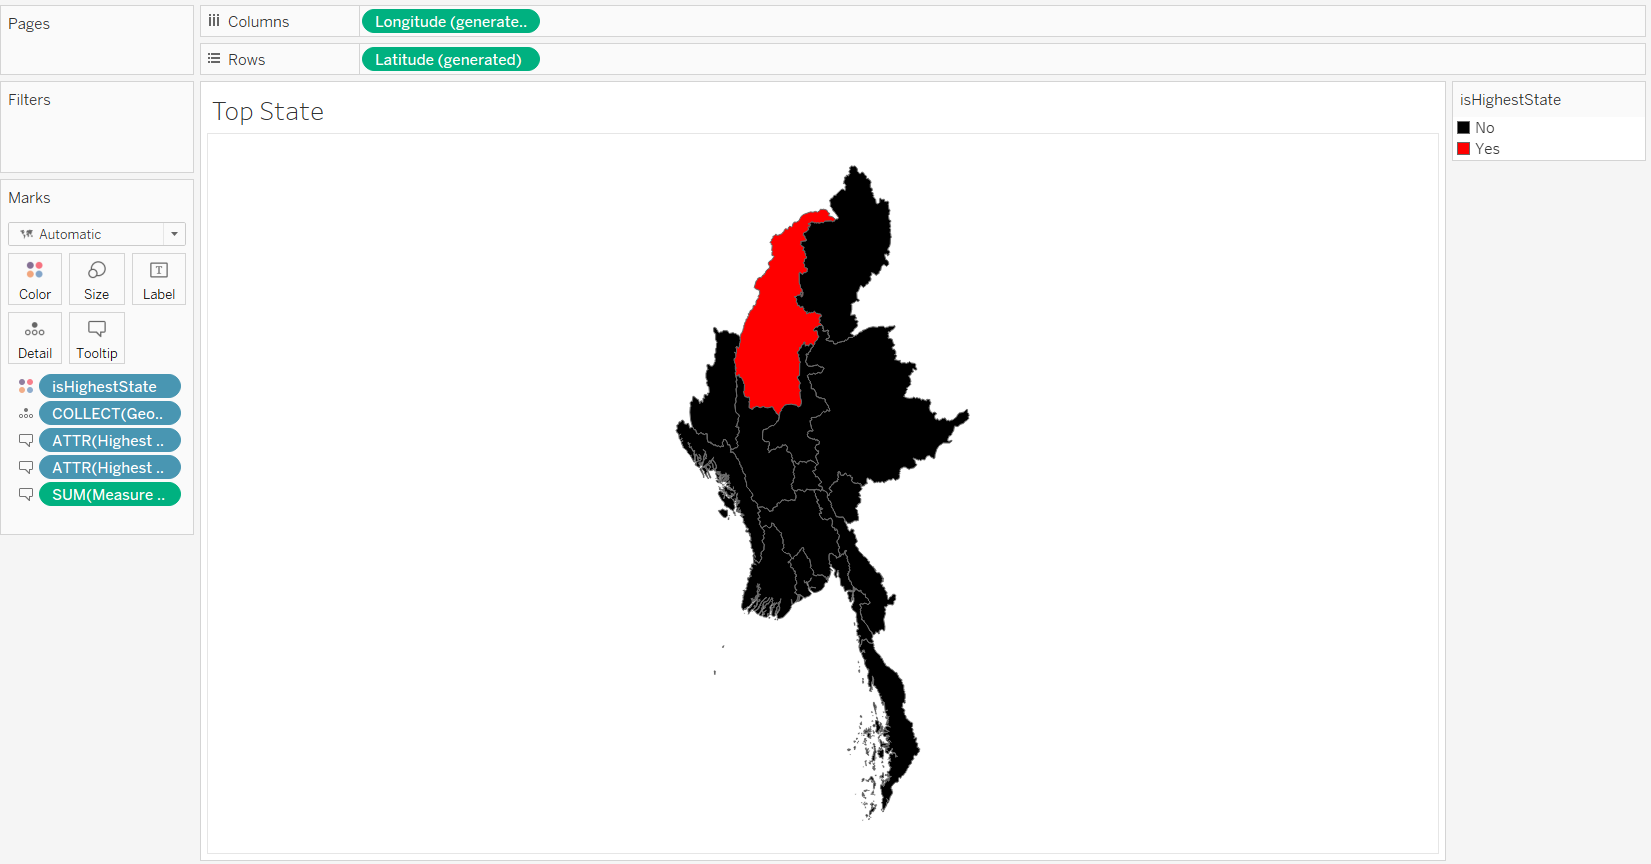
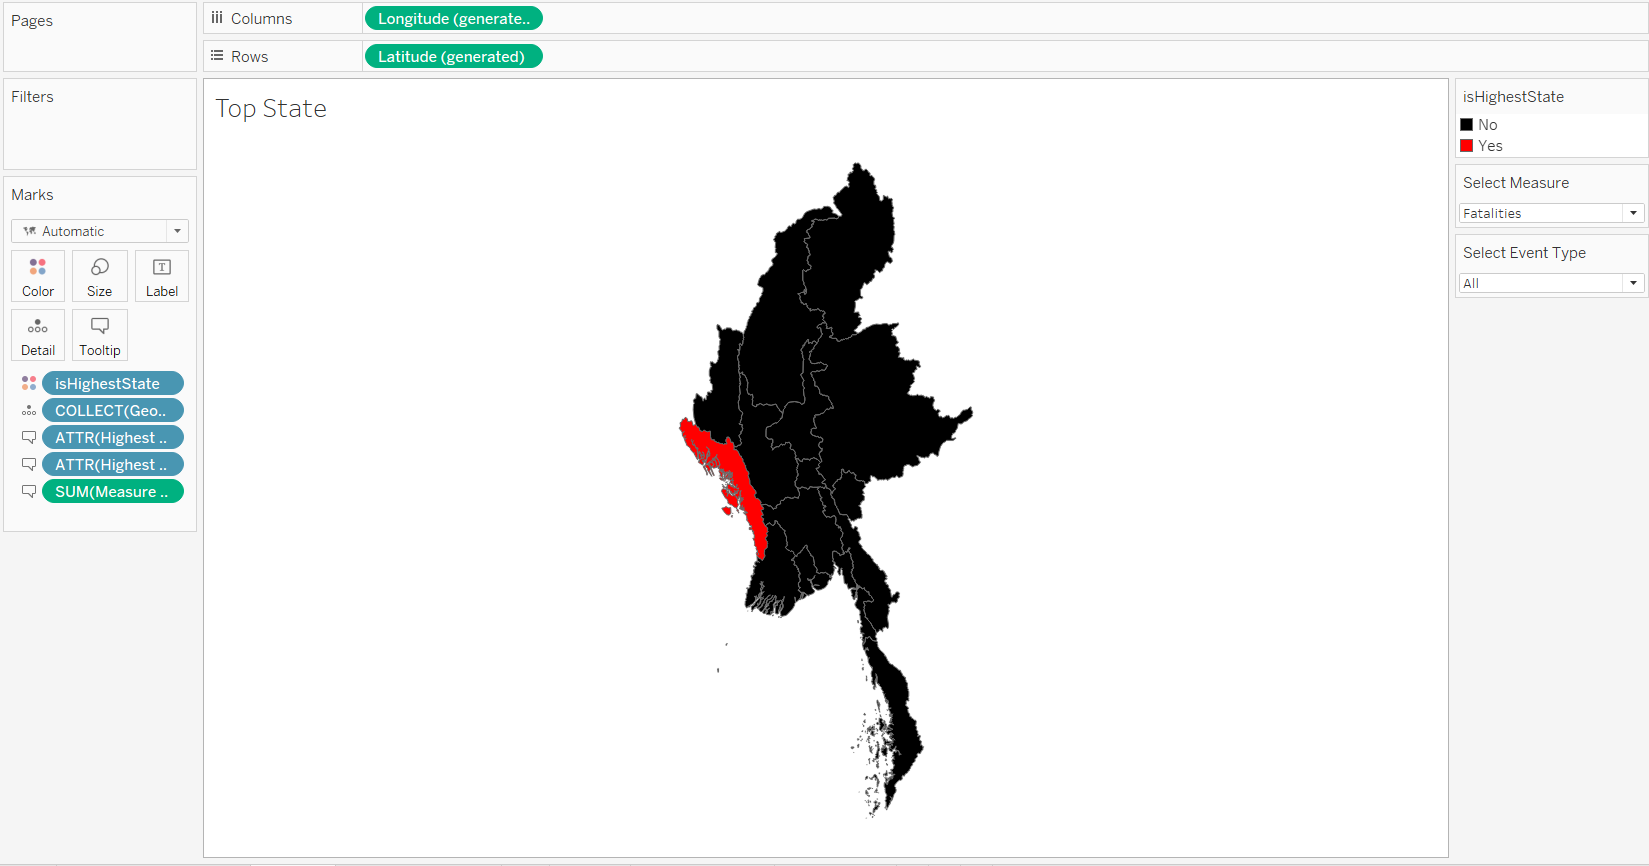
DataViz3: 4.8 Dashboard

diff --git a/_posts/2021-03-16-dataviz-makeover-3/dataviz-makeover-3.html b/_posts/2021-03-16-dataviz-makeover-3/dataviz-makeover-3.html
@@ -123,7 +123,7 @@ code span.wa { color: #5e5e5e; font-style: italic; } /* Warning */
   <!--/radix_placeholder_rmarkdown_metadata-->
   
   <script type="text/json" id="radix-resource-manifest">
-  {"type":"character","attributes":{},"value":["biblio.bib","dataviz-makeover-3_files/anchor-4.2.2/anchor.min.js","dataviz-makeover-3_files/bowser-1.9.3/bowser.min.js","dataviz-makeover-3_files/distill-2.2.21/template.v2.js","dataviz-makeover-3_files/header-attrs-2.6/header-attrs.js","dataviz-makeover-3_files/jquery-1.11.3/jquery.min.js","dataviz-makeover-3_files/popper-2.6.0/popper.min.js","dataviz-makeover-3_files/tippy-6.2.7/tippy-bundle.umd.min.js","dataviz-makeover-3_files/tippy-6.2.7/tippy-light-border.css","dataviz-makeover-3_files/tippy-6.2.7/tippy.css","dataviz-makeover-3_files/tippy-6.2.7/tippy.umd.min.js","dataviz-makeover-3_files/webcomponents-2.0.0/webcomponents.js","Dataviz3.bib","images/2. Broken Time Series.png","images/2. Original Visualisation Tooltip.png","images/2. Original Visualisation.png","images/2. Other Countries Still Shown.png","images/2. Philippines All Event Type.png","images/2. Philippines Violence against Civilian.png","images/3. Alternative Graphical Representation.jpeg","images/4.0 Rename Connection and Field.png","images/4.0 Rename Field.png","images/4.0. Add Filter.png","images/4.0. Add new data.png","images/4.0. Connect Data to National Boundary.png","images/4.0. Connect to Spatial File.png","images/4.0. Only Keep Myanmar.png","images/4.1. Add Data Source.png","images/4.1. Add Shapes to Rep.png","images/4.1. Align Label.png","images/4.1. Change Shape.png","images/4.1. Create Parameter from Data Pane.png","images/4.1. Create Parameter.png","images/4.1. Drop Event Type Value.png","images/4.1. Dummy Event Type File.png","images/4.1. Fit Height.png","images/4.1. Icons.png","images/4.1. Remove Line.png","images/4.2. Create Calculated Field.png","images/4.2. Density Map v1.png","images/4.2. Density Map v2.png","images/4.2. Dual Axis.png","images/4.2. Edit Tooltips.png","images/4.2. Longitude Latitude.png","images/4.2. Select Marks type.png","images/4.2. Select Measure.png","images/4.2. Trellis Year.png","images/4.2. Turn off Pan and Zoom.png","images/4.2. Year Filter.png","images/4.3. Bar Charts of Event Type.png","images/4.3. Final Trellis Bar Chart.png","images/4.3. Reduce Font Size.png","images/4.3. Remove Axis Label.png","images/4.3. Trellis Bar Chart.png","images/4.4. Final Highest State.png","images/4.4. Highest State v1.png","images/4.4. Show Parameter.png","images/4.4. Tooltip.png","images/4.5. Filter Top 10.png","images/4.5. Final Top States.png","images/4.5. Sort Descending.png","images/4.5. Top 10 States.png","images/4.5. Top States Bar Chart.png"]}
+  {"type":"character","attributes":{},"value":["biblio.bib","dataviz-makeover-3_files/anchor-4.2.2/anchor.min.js","dataviz-makeover-3_files/bowser-1.9.3/bowser.min.js","dataviz-makeover-3_files/distill-2.2.21/template.v2.js","dataviz-makeover-3_files/header-attrs-2.6/header-attrs.js","dataviz-makeover-3_files/jquery-1.11.3/jquery.min.js","dataviz-makeover-3_files/popper-2.6.0/popper.min.js","dataviz-makeover-3_files/tippy-6.2.7/tippy-bundle.umd.min.js","dataviz-makeover-3_files/tippy-6.2.7/tippy-light-border.css","dataviz-makeover-3_files/tippy-6.2.7/tippy.css","dataviz-makeover-3_files/tippy-6.2.7/tippy.umd.min.js","dataviz-makeover-3_files/webcomponents-2.0.0/webcomponents.js","Dataviz3.bib","images/2. Broken Time Series.png","images/2. Original Visualisation Tooltip.png","images/2. Original Visualisation.png","images/2. Other Countries Still Shown.png","images/2. Philippines All Event Type.png","images/2. Philippines Violence against Civilian.png","images/3. Alternative Graphical Representation.jpeg","images/3. Final Dashboard.png","images/4.0 Rename Connection and Field.png","images/4.0 Rename Field.png","images/4.0. Add Filter.png","images/4.0. Add new data.png","images/4.0. Connect Data to National Boundary.png","images/4.0. Connect to Spatial File.png","images/4.0. Only Keep Myanmar.png","images/4.1. Add Data Source.png","images/4.1. Add Shapes to Rep.png","images/4.1. Align Label.png","images/4.1. Change Shape.png","images/4.1. Create Parameter from Data Pane.png","images/4.1. Create Parameter.png","images/4.1. Drop Event Type Value.png","images/4.1. Dummy Event Type File.png","images/4.1. Fit Height.png","images/4.1. Icons.png","images/4.1. Remove Line.png","images/4.2. Create Calculated Field.png","images/4.2. Density Map v1.png","images/4.2. Density Map v2.png","images/4.2. Dual Axis.png","images/4.2. Edit Tooltips.png","images/4.2. Longitude Latitude.png","images/4.2. Select Marks type.png","images/4.2. Select Measure.png","images/4.2. Trellis Year.png","images/4.2. Turn off Pan and Zoom.png","images/4.2. Year Filter.png","images/4.3. Bar Charts of Event Type.png","images/4.3. Final Trellis Bar Chart.png","images/4.3. Reduce Font Size.png","images/4.3. Remove Axis Label.png","images/4.3. Tooltip.png","images/4.3. Trellis Bar Chart.png","images/4.4. Final Highest State.png","images/4.4. Highest State v1.png","images/4.4. Remove Border.png","images/4.4. Show Parameter.png","images/4.4. Tooltip.png","images/4.5. Filter Top 10.png","images/4.5. Final Top States.png","images/4.5. Sort Descending.png","images/4.5. Tooltip.png","images/4.5. Top 10 States.png","images/4.5. Top States Bar Chart.png","images/4.6. Final Year Label.png","images/4.6. Formatted Year.png","images/4.6. Year Label.png","images/4.7. Add column border.png","images/4.7. Change Colour.png","images/4.7. Fatalities v1.png","images/4.7. Final Fatalities Button.png","images/4.7. Number of Events.png","images/4.8 Add Parameter Aciton.png","images/4.8 Dashboard Layout.png","images/4.8 Year Highlighter.png","images/4.8. Create Dashboard Action.png","images/4.8. Dashboard Size.png","images/4.8. Dashboard Title.png","images/4.8. Fatalities Select Measure.png","images/4.8. Marked Layout.png","images/4.8. Number of Events Select Measure.png","images/4.8. On Display.png","images/4.8. State Highlighter.png"]}
   </script>
   <!--radix_placeholder_navigation_in_header-->
   <!--/radix_placeholder_navigation_in_header-->
@@ -1511,10 +1511,14 @@ code span.wa { color: #5e5e5e; font-style: italic; } /* Warning */
 <li><a href="#trellis-bar-charts">4.3 Trellis Bar Charts</a></li>
 <li><a href="#top-state-highlight-map">4.4 Top State Highlight Map</a></li>
 <li><a href="#top-states-bar-chart">4.5 Top States Bar Chart</a></li>
+<li><a href="#year-label">4.6. Year Label</a></li>
+<li><a href="#measure-parameter-buttons">4.7 Measure Parameter Buttons</a></li>
+<li><a href="#dashboard">4.8 Dashboard</a></li>
 </ul></li>
 </ul>
 </nav>
 </div>
+<p>nocite: | <span class="citation" data-cites="battersby_2017_10">(<a href="#ref-battersby_2017_10" role="doc-biblioref"><strong>battersby_2017_10?</strong></a>)</span> …</p>
 <h1 id="introduction">1. Introduction</h1>
 <p>In 1 February 2021, the military force in Myanmar launched a coup and arrested the civilian leaders, leaving the country in a dire state. The protests over the coup is one of the largest in Myanmar history, and the military have utilised water cannon, rubber bullets and live ammunition in the effort to stop the protesters <span class="citation" data-cites="cuddy_2021_myanmar">(<a href="#ref-cuddy_2021_myanmar" role="doc-biblioref">Cuddy 2021</a>)</span>.</p>
 <p>The country has long been led by a military junta, but a hope for democracy came when the military junta unexpectedly dissolved and appoints civilian ruler, President Then Sein. In 2015, Myanmar held an election, with Aung San Suu Kyi emerging as its de facto leader <span class="citation" data-cites="maizland_2021_myanmars">(<a href="#ref-maizland_2021_myanmars" role="doc-biblioref">Maizland 2021</a>)</span>. Ms Suu Kyi is an ignitor for democracy in Myanmar, earning a Nobel Peace Prize while she was under house arrest in 1991 <span class="citation" data-cites="cuddy_2021_myanmar">(<a href="#ref-cuddy_2021_myanmar" role="doc-biblioref">Cuddy 2021</a>)</span>. However, she lost much of her international support after her defence of the military who abuses Muslim Rohingya Minority, and led hundreds of thousands of them fleeing to Bangladesh in 2017 <span class="citation" data-cites="bbcnews_2021_aung">(<a href="#ref-bbcnews_2021_aung" role="doc-biblioref">News 2021</a>)</span>.</p>
@@ -1828,6 +1832,11 @@ END</code></pre>
 </ul></li>
 </ul>
 <p><img src="images/4.3.%20Trellis%20Bar%20Chart.png" /></p>
+<h3 id="edit-tooltip-1">Edit Tooltip</h3>
+<ul>
+<li>Repeat the steps to edit the tooltip, and change the “Selected Measure” to Parameters.Select Measure, as shown in the screenshot below.</li>
+</ul>
+<p><img src="images/4.3.%20Tooltip.png" /></p>
 <h3 id="adjust-formatting-1">Adjust Formatting</h3>
 <p>Rather than repeating all the y-axis label for each cell, we will create a dynamic text to show what measure is being displayed later. * Double-click on the “Selected Measure” axis label * Delete the Title and leave it empty</p>
 <p><img src="images/4.3.%20Remove%20Axis%20Label.png" /></p>
@@ -1876,7 +1885,7 @@ end
 </ul>
 <p>Your screen should look like the screnshot below.</p>
 <p><img src="images/4.4.%20Highest%20State%20v1.png" /></p>
-<h3 id="edit-tooltip-1">Edit Tooltip</h3>
+<h3 id="edit-tooltip-2">Edit Tooltip</h3>
 <p>We are going to create two more calculated fields just for the tooltip. We will return a value for the highest state but return NULL for the rest. This is to prevent the tooltip from showing if the user hovers over the other states.</p>
 <ul>
 <li>Create the following calculated fields</li>
@@ -1908,11 +1917,11 @@ END</code></pre>
 </ul>
 <p><img src="images/4.4.%20Tooltip.png" /></p>
 <h3 id="adjust-formatting-2">Adjust Formatting</h3>
-<p><em>As with the density map, remove the background map and remove interactive map features. </em> Map &gt; Map Layers… &gt; Washout = 100% * Map &gt; Map Options… &gt; Uncheck all * Change the colour of the map * Double-click on Color on the Marks Card * Increase Opacity to 100% * Click Edit Colors… &gt; Change “No” to black and “Yes” to red</p>
+<p><em>As with the density map, remove the background map and remove interactive map features. </em> Map &gt; Map Layers… &gt; Washout = 100% * Map &gt; Map Options… &gt; Uncheck all * Change the colour of the map * Double-click on Color on the Marks Card * Increase Opacity to 100% * Click Edit Colors… &gt; Change “No” to black and “Yes” to red * Remove border by clicking Format menu &gt; Borders &gt; Rows &gt; change Pane Row Divider to None * Repeat for columns</p>
+<p><img src="images/4.4.%20Remove%20Border.png" /></p>
 <p>After the formatting, your screen should look similar to the screenshot below.</p>
 <p><img src="images/4.4.%20Final%20Highest%20State.png" /></p>
-<p>The parameters that were selected on this screenshot is Fatalities of Protest event type. If we want to change it, we can right-click on the parameters on the Data Pane &gt; Show Parameter.</p>
-<p><img src="images/4.4.%20Show%20Parameter.png" /></p>
+<p>If the state that is being highlighted is different, it might be due to the different parameters being selected. The parameters that were selected on this screenshot is Fatalities of Protest event type. If we want to change it, we can right-click on the parameters on the Data Pane &gt; Show Parameter.</p>
 <h2 id="top-states-bar-chart">4.5 Top States Bar Chart</h2>
 <p>Next, we are going to use the existing calculated fields to create a bar chart that displays the top 10 states in descending order by the values selected in the parameter.</p>
 <ul>
@@ -1935,12 +1944,120 @@ END</code></pre>
 <p><img src="images/4.5.%20Filter%20Top%2010.png" /></p>
 <p>Your screen should only show 10 states now.</p>
 <p><img src="images/4.5.%20Top%2010%20States.png" /></p>
+<h3 id="edit-tooltip-3">Edit Tooltip</h3>
+<ul>
+<li>Double-click on Tooltip on the Marks Card</li>
+<li>Remove the isHighestState from the Tooltip and change the “Selected Event Type” Label to a dynamic value from the Parameters.Select Measure and Parameters.Select Event Type</li>
+</ul>
+<p><img src="images/4.5.%20Tooltip.png" /></p>
 <h3 id="adjust-formatting-3">Adjust Formatting</h3>
 <ul>
 <li>Remove the x-axis label by double-clicking on the label &gt; Delete Title &gt; Close dialog box</li>
 </ul>
 <p>The final look for top states bar chart is shown below.</p>
 <p><img src="images/4.5.%20Final%20Top%20States.png" /></p>
+<h2 id="year-label">4.6. Year Label</h2>
+<p>We are going to create a year label to replace the labels in the density maps and the trellis bar charts that we have removed.</p>
+<ul>
+<li>Create a new sheet</li>
+<li>Add Year to the Columns shelf and Text on the Marks Card</li>
+<li>Convert the Year from Continuous to Discrete</li>
+</ul>
+<p>Your screen should look like the screenshot below.</p>
+<p><img src="images/4.6.%20Year%20Label.png" /></p>
+<ul>
+<li>Adjust the format of the text to make it bolder and larger by double-clicking on Text on the Marks Card</li>
+</ul>
+<p><img src="images/4.6.%20Formatted%20Year.png" /></p>
+<ul>
+<li>Remove the Year header by right-clicking on the Year pill on the Columns shelf &gt; Uncheck Show Header</li>
+<li>Remove the lines by clicking on the Format from the menu drop-down &gt; Borders &gt; Change Row Pane Divider to None</li>
+</ul>
+<p>The formatted year label is shown in the screenshot below.</p>
+<p><img src="images/4.6.%20Final%20Year%20Label.png" /></p>
+<h2 id="measure-parameter-buttons">4.7 Measure Parameter Buttons</h2>
+<p>For the measure parameter buttons, we need to create each button separately in different sheets so we can move the buttons freely.</p>
+<ul>
+<li>Create New Sheet called Fatalities</li>
+<li>Add Measure from the Measure Data Source that we created in the Excel file to the Columns shelf, Text on Marks Card, and Filters</li>
+<li>Only keep “Fatalities”</li>
+</ul>
+<p>Your screen should look like the screenshot below.</p>
+<p><img src="images/4.7.%20Fatalities%20v1.png" /></p>
+<ul>
+<li>Adjust the formatting to make it look like a button
+<ul>
+<li>Repeat the steps to remove header</li>
+<li>Repeat the steps the text format make it bigger and bolder</li>
+<li>Add the column border by clicking Format from the menu drop-down &gt; Borders &gt; Column &gt; Change Pane Column Divider to the first line under “None”</li>
+</ul></li>
+</ul>
+<p><img src="images/4.7.%20Add%20column%20border.png" /></p>
+<ul>
+<li>Change the background colour by clicking the bucket icon in the Format pane &gt; Sheet &gt; Change Pane colour to red</li>
+</ul>
+<p><img src="images/4.7.%20Change%20Colour.png" /></p>
+<ul>
+<li>Change the colour of the text to make it more readable, such as white colour</li>
+</ul>
+<p>The final look of the button sheet looks like the screenshot below.</p>
+<p><img src="images/4.7.%20Final%20Fatalities%20Button.png" /></p>
+<p>Repeat the steps to create another button for Number of Events.</p>
+<p><img src="images/4.7.%20Number%20of%20Events.png" /></p>
+<h2 id="dashboard">4.8 Dashboard</h2>
+<p>We will now combine all the different components into one dashboard.</p>
+<ul>
+<li>Create a new dashboard and adjust the size. We will use PowerPoint (1600 x 900) in this example.</li>
+<li>Arrange the Sheets and Objects so it will look like the screenshot below.The legend of which element is on the dashboard is shown in the left side.
+<ul>
+<li>Drag the elements to the dashboard from the outermost layer to the innermost layer. Please note that some dummy texts and some adjustments are done to make the layout fit.</li>
+</ul></li>
+</ul>
+<p><img src="images/4.8.%20Marked%20Layout.png" /></p>
+<p>There is also a text object at the bottom, but it is truncated due to the screen size.</p>
+<ul>
+<li>To resize the layout, we can click the Fit drop down above the dashboard and change from standard to fit height or fit width. If it does not work, we can hover to the right corner of the sheet to resize the width or to the bottom of the sheet to resize the height.</li>
+<li>I have removed the title on the top states bar chart by changing the colour to white so it will stay aligned with the map on its left side.</li>
+<li>The On Display text object is a dynamic text that shows the selected filter. Use the following formula to display the value.</li>
+</ul>
+<p><img src="images/4.8.%20On%20Display.png" /></p>
+<h3 id="use-sheets-as-custom-filter">Use Sheets as Custom Filter</h3>
+<p>We have 3 sheets in the dashboard that is meant to be used as a filter: Icons, Fatalities, and Number of Events. We can change the value of parameters according to actions performed on these sheet.</p>
+<ul>
+<li>Click Dashboard from the menu drop-down &gt; Actions…</li>
+</ul>
+<p><img src="images/4.8.%20Create%20Dashboard%20Action.png" /></p>
+<ul>
+<li>Click Add Action &gt; Change Parameter…</li>
+<li>Use the following properties for the parameter</li>
+</ul>
+<p><img src="images/4.8%20Add%20Parameter%20Aciton.png" /></p>
+<ul>
+<li>Add a name for the parameter action</li>
+<li>Source Sheet means the the parameter change will be performed when the user performs an action on the source sheet. Set the Source sheet to Icons.</li>
+<li>Target is the parameter that we are going to change. We will use the icons to change the Select Event Type parameter to the Event Type Value of the icon that is clicked.</li>
+<li>We want to have “All” as the default, so set back the parameter to “All” when selection is cleared.</li>
+</ul>
+<p>We can try to click the different icons and observe how the density maps and the top states visualisation changes according to the selection. Note that the trellis bar chart will not change because it always has all event types by default.</p>
+<p>Repeat adding parameter action for the Fatalities with the following propoerties.</p>
+<p><img src="images/4.8.%20Fatalities%20Select%20Measure.png" /></p>
+<p>Repeat again for Number of Events, keeping all the properties for Fatalities Select Measure action except changing the source sheets to Number of Events only.</p>
+<h3 id="add-highlighter">Add Highlighter</h3>
+<p>We will use the year as a highlighter, but we will use hover action instead of select. * Click Dashboard menu &gt; Actions… &gt; Add Action &gt; Highlight … * Set the Action as hover and source sheet as Year. * Only keep Bar Charts of Event Type and Density Map as the target sheet.</p>
+<p><img src="images/4.8%20Year%20Highlighter.png" /></p>
+<ul>
+<li>Repeat the steps to add another highlighter for state with the following configuration</li>
+</ul>
+<p><img src="images/4.8.%20State%20Highlighter.png" /></p>
+<ul>
+<li>Edit the Title to be dynamically changing based on the selected parameters.
+<ul>
+<li>Double-click on the Title. Enter the following</li>
+</ul></li>
+</ul>
+<p><img src="images/4.8.%20Dashboard%20Title.png" /></p>
+<p>Congratulations! We have completed our dashboard.</p>
+<p><img src="images/3.%20Final%20Dashboard.png" /></p>
 <div class="sourceCode" id="cb11"><pre class="sourceCode r distill-force-highlighting-css"><code class="sourceCode r"></code></pre></div>
 <div id="refs" class="references csl-bib-body hanging-indent" role="doc-bibliography">
 <div id="ref-cuddy_2021_myanmar" class="csl-entry" role="doc-biblioentry">
